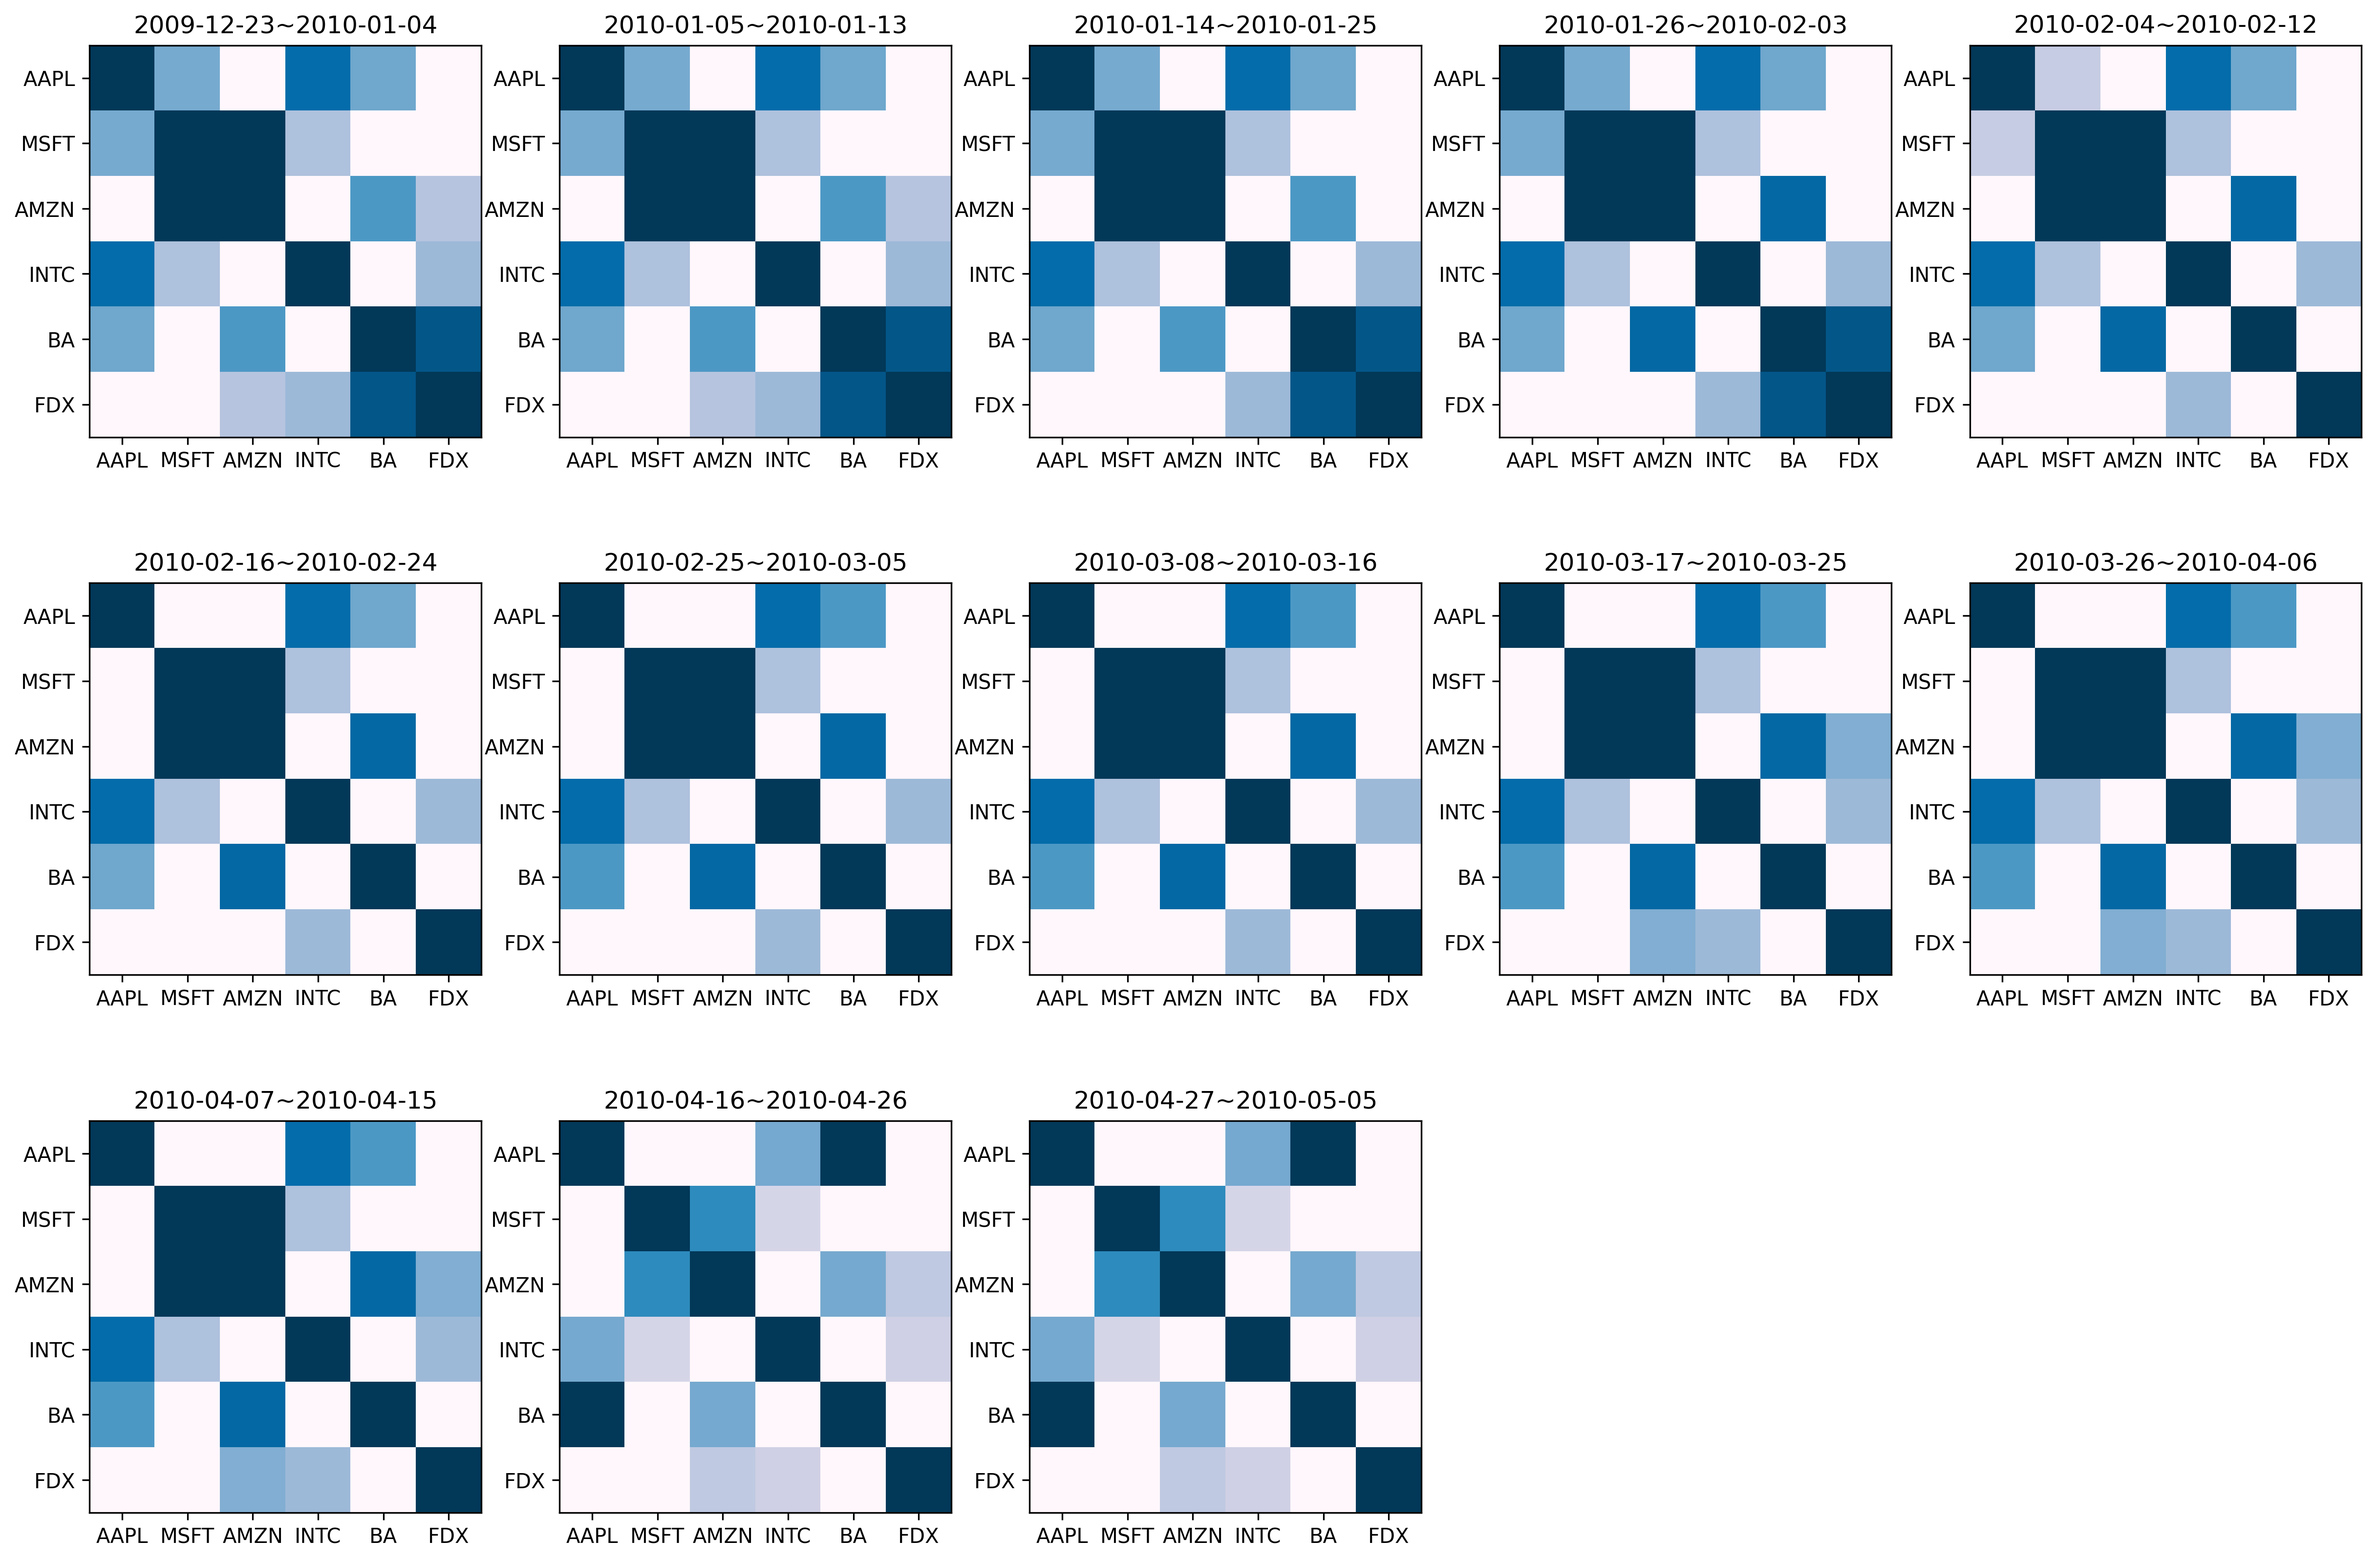
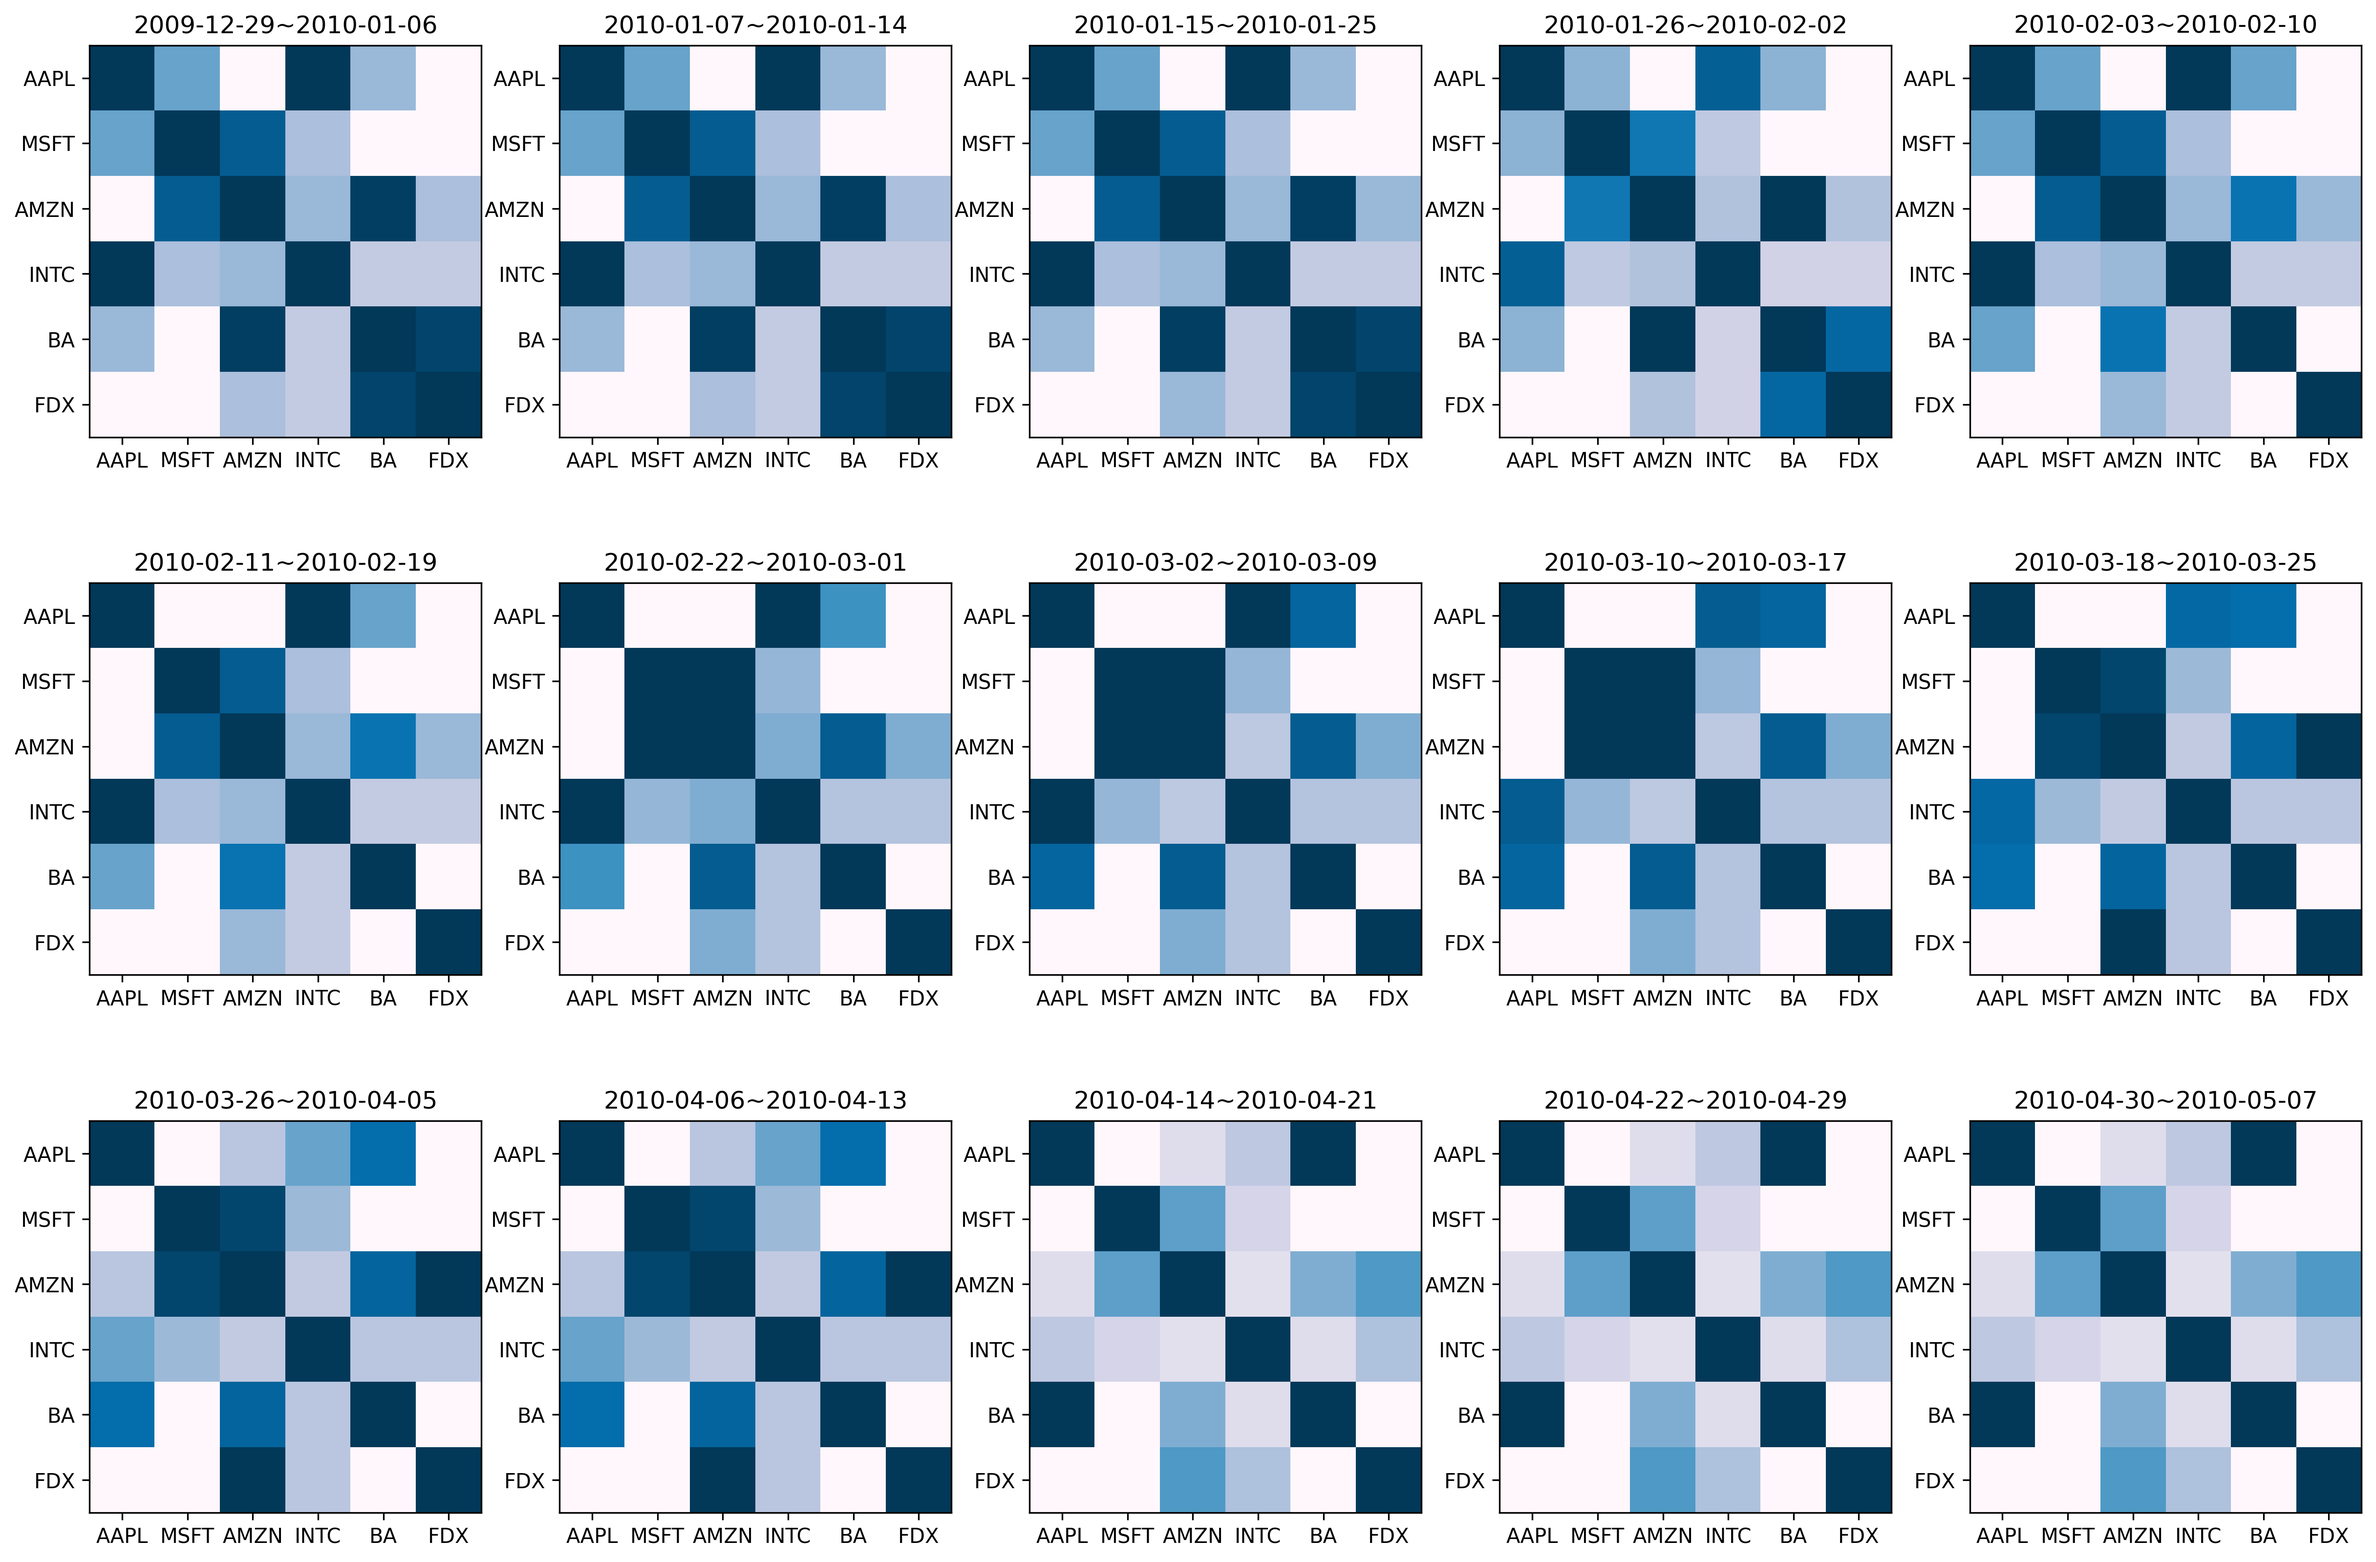
增加了折线显示函数，但是效果不是很理想，调了参数确认alpha beta有效

diff --git a/ParallelTVGL.py b/ParallelTVGL.py
@@ -1,3 +1,6 @@
+import os
+from pathlib import Path
+
 from BaseGraphicalLasso import BaseGraphicalLasso
 from DataHandler import DataHandler
 import penalty_functions as pf
@@ -85,6 +88,13 @@ class ParallelTVGL(BaseGraphicalLasso):
                 if self.iteration % 500 == 0 or self.iteration == 1:
                     s_time = time.time()
                 if self.iteration > 0:
+                    ##这个是原来的收敛判断条件，把它换成了ADMM的标准收敛判断
+                    # fro_norm = 0
+                    # for i in range(self.blocks):
+                    #     dif = self.thetas[i] - thetas_pre[i]
+                    #     fro_norm += np.linalg.norm(dif)
+                    # if fro_norm < self.e:
+                    #     stopping_criteria = True
                     info = self.check_Convergence()
                     stopping_criteria = info[0]
                     if(self.iteration % 500 ==0 ):
@@ -99,7 +109,7 @@ class ParallelTVGL(BaseGraphicalLasso):
                 self.pre_u1s = copy.deepcopy(self.u1s)
                 self.pre_u2s = copy.deepcopy(self.u2s)
 
-        self.run_time = "{0:.3g}".format(time.time() - start_time)
+        self.time_span = "{0:.3g}".format(time.time() - start_time)
         self.final_tuning(stopping_criteria, max_iter)
 
 
@@ -158,6 +168,9 @@ def u_update(theta, u0, z0, u2, z2, u1, z1, u1_p, theta_p, z1_p):
     return [new_u0, new_u1, new_u2]
 
 
+
+
+
 if __name__ == "__main__" :
 
     # Input parameters from command line:
@@ -190,13 +203,13 @@ if __name__ == "__main__" :
     # beta = float(sys.argv[5])
     filename = None
     penalty_function = "element_wise"
-    blocks = 13
-    lambd = 0.17
+    blocks = 15
+    lambd = 0.3
     beta = 5
-    samplePerStep = 7
+    samplePerStep = 6
     dimension = 6
     real_data = True
-    time_set = timing_set(101, samplePerStep, 3, samplePerStep, 10)
+    time_set = timing_set(101, samplePerStep, 3, samplePerStep, 12)
     stock_list = [2, 321, 30, 241, 48, 180]
 
 
@@ -205,8 +218,6 @@ if __name__ == "__main__" :
     solver = ParallelTVGL(filename=filename,
                         penalty_function=penalty_function,
                         blocks=blocks,
-                        lambd=lambd,
-                        beta=beta,
                         samplePerStep=samplePerStep,
                         dimension=dimension,
                         time_set=time_set,
@@ -232,8 +243,14 @@ if __name__ == "__main__" :
         print(solver.thetas[10][j, :])
     company_list = get_company_list(stock_list)
     company_list_list = list(company_list)
-    save_matrix_plot_exact_number(solver.thetas, time_set, company_list_list, './P_theta_exact_number.png')
-    save_matrix_plot(solver.thetas, time_set, company_list_list, './P_theta.png')
+    time_param = [101, samplePerStep,  3, samplePerStep, 12]
+    log_path = get_log_path(stock_list, time_param, samplePerStep, penalty_function, time_set)
+    if not Path(log_path).exists():
+        os.makedirs(log_path + "/")
+
+    save_matrix_plot_exact_number(solver.thetas, time_set, company_list_list, log_path + '/P_theta_exact_number.png')
+    save_matrix_plot(solver.thetas, time_set, company_list_list, log_path + '/P_theta.png')
+    save_line_plot(solver.deviations, time_set, solver.lambd, solver.beta, solver.time_span, log_path + '/line.png', samplePerStep, penalty_function)
     print("\nTemporal deviations: ")
     # solver.temporal_deviations()
     print(solver.deviations)
@@ -258,6 +275,6 @@ if __name__ == "__main__" :
     #     datahandler.write_network_results(filename, solver)
 
     """ Running times """
-    print("\nAlgorithm run time: %s seconds" % (solver.run_time))
+    print("\nAlgorithm run time: %s seconds" % (solver.time_span))
     print("Execution time: %s seconds" % (time.time() - start_time))
 

diff --git a/utils.py b/utils.py
@@ -1,4 +1,7 @@
+from datetime import datetime
+
 import numpy as np
+import matplotlib.pylab as pl
 
 COR = ['A', 'AA', 'AAPL', 'ABC', 'ABT', 'ACE', 'ACS', 'ADBE', 'ADI', 'ADM', 'ADP', 'ADSK', 'AEE', 'AEP', 'AES',
        'AET', 'AFL', 'AGN', 'AIG', 'AIV', 'AIZ', 'AKAM', 'AKS', 'ALL', 'ALTR', 'AMAT', 'AMD', 'AMGN', 'AMP', 'AMT',
@@ -58,7 +61,6 @@ def timing_set(center, samplesPerStep_left, count_left, samplesPerStep_right, co
 
 def save_matrix_plot(theta_est_list, time_set, company_list_list, path):
     TIME_MAP = get_time_map()
-    import matplotlib.pylab as pl
     row_num = np.ceil(len(time_set) / 5.0)
     fig = pl.figure(figsize=(20, 4.5 * row_num))
     for i in range(len(time_set)):
@@ -82,7 +84,6 @@ def save_matrix_plot(theta_est_list, time_set, company_list_list, path):
 
 def save_matrix_plot_exact_number(theta_est_list, time_set, company_list_list, path):
     TIME_MAP = get_time_map()
-    import matplotlib.pylab as pl
     row_num = np.ceil(len(time_set) / 5.0)
     fig = pl.figure(figsize=(20, 4.5 * row_num))
     for i in range(len(time_set)):
@@ -129,8 +130,6 @@ def get_time_map() -> object:
 def get_company_list(stock_list):
     return map(lambda x : COR[x], stock_list)
 
-
-
 def genEmpCov(samples, useKnownMean=False, m=0):
     size, samplesPerStep = samples.shape
     if useKnownMean == False:
@@ -141,3 +140,48 @@ def genEmpCov(samples, useKnownMean=False, m=0):
         empCov = empCov + np.outer(sample - m, sample - m)
     empCov = empCov / samplesPerStep
     return empCov
+
+def get_time_list(time_set, short=False):
+    TIME_MAP = get_time_map()
+    result = []
+    for t in time_set:
+        if short:
+            result.append(TIME_MAP[t[0]][5:] + '~' + TIME_MAP[t[1]][5:])
+        else:
+            result.append(TIME_MAP[t[0]] + '~' + TIME_MAP[t[1]])
+    return result
+
+
+def save_line_plot(temp_dev_list, time_set, alpha, beta, time_span, path, time_step, penalty):
+    TIME_MAP = get_time_map()
+    pl.figure(figsize = (1.5 * len(temp_dev_list), 4))
+    pl.plot(temp_dev_list[0:], '-o')
+    pl.ylabel(r'$\|\Theta_i - \Theta_{i-1}\|_{F}$')
+    pl.xlabel('Timestamp')
+    pl.yscale('log')
+    pl.text(0.05, 0.5, 'Alpha=' + str(alpha))
+    pl.text(0.05, 0.3, 'Beta=' + str(beta))
+    pl.text(0.05, 0.1, "Time passed: {}s".format(time_span))
+    pl.text(0.05, 0.03, 'samplePerStep=' + str(time_step))
+    pl.title('From ' + TIME_MAP[time_set[0][0]] + ' to ' + TIME_MAP[time_set[-1][1]] + " " + penalty)
+    ax = pl.gca()
+    ax.set_yticks([10**(-3), 10**(-2), 10**(-1), 1])
+    # angle = np.linspace(0, len(temp_dev_list) - 1, len(temp_dev_list))
+    a = get_time_list(time_set, True)[0:]
+    ax.set_xticks(np.linspace(0, len(temp_dev_list) - 1, len(temp_dev_list)))
+    ax.set_xticklabels(get_time_list(time_set, True)[:-1])
+    ax.set_yticklabels([r'$10^{-3}$', r'$10^{-2}$', r'$10^{-1}$', r'$10^{0}$'])
+    pl.savefig(path, dpi=300, bbox_inches='tight')
+
+
+def get_dir_name(stock_list, time_param, time_set):
+    TIME_MAP = get_time_map()
+    stocks = get_company_list(stock_list)
+    stockstr = ','.join(stocks)
+    time_param = list(time_param)
+    time_param_str_list = [str(i) for i in time_param]
+    return '[' + stockstr + ']' + TIME_MAP[time_set[0][0]] + '_' + TIME_MAP[time_set[-1][-1]] + '_' + '_'.join(time_param_str_list)
+
+def get_log_path(stock_list, time_param,time_step, penalty, time_set):
+
+    return "./result/" + 'PD_result{}_time_step{}_{}/'.format(datetime.now().strftime('%Y-%m-%d'), time_step, penalty) + get_dir_name(stock_list, time_param, time_set)

diff --git a/BaseGraphicalLasso.py b/BaseGraphicalLasso.py
@@ -16,9 +16,8 @@ class BaseGraphicalLasso(object):
     np.set_printoptions(precision=3)
 
     """ Initialize attributes, read data """
-    def __init__(self, filename, blocks, lambd, beta,
-                 processes, samplePerStep, dimension, time_set, stock_list, read_data_function, penalty_function="group_lasso",
-                 datecolumn=True):
+    def __init__(self, filename, blocks, processes, samplePerStep, dimension, time_set, stock_list,
+                 read_data_function, penalty_function="group_lasso",datecolumn=True):
         self.datecolumn = datecolumn
         self.processes = processes
         self.blocks = blocks
@@ -57,7 +56,8 @@ class BaseGraphicalLasso(object):
         self.roundup = ADMMParam.ROUNDUP # 结果四舍五入保留的位数
         self.e_rel = ADMMParam.E_REL # ADMM收敛条件的两个参数
         self.e_abs = ADMMParam.E_ABS
-        self.rho = 1
+        self.rho = ADMMParam.RHO
+        self.time_span = None
 
 
     """调用传入的读入数据函数以获取经验协方差"""
@@ -170,6 +170,7 @@ class BaseGraphicalLasso(object):
             self.pre_u2s = copy.deepcopy(self.u2s)
 
         self.run_time = "{0:.3g}".format(time.time() - start_time)
+        self.time_span = time.time() - start_time
         self.final_tuning(stopping_criteria, max_iter)
 
     def theta_update(self):
@@ -252,7 +253,7 @@ class BaseGraphicalLasso(object):
         closes possible multiprocesses. """
     def final_tuning(self, stopping_criteria, max_iter):
         self.temporal_deviations()
-        self.thetas = [np.round(theta, self.roundup) for theta in self.thetas]
+        self.thetas = [np.abs(np.round(theta, self.roundup)) for theta in self.thetas]
         self.terminate_processes()
         if stopping_criteria:
             print("\nIterations to complete: %s" % self.iteration)
@@ -281,8 +282,8 @@ class BaseGraphicalLasso(object):
         self.deviations = np.zeros(self.blocks - 1)
         for i in range(0, self.blocks - 1):
             dif = self.thetas[i+1] - self.thetas[i]
-            np.fill_diagonal(dif, 0)
-            self.deviations[i] = np.linalg.norm(dif)
+            # np.fill_diagonal(dif, 0)
+            self.deviations[i] = np.linalg.norm(dif, 'fro')
         try:
             self.norm_deviations = self.deviations/max(self.deviations)
             self.dev_ratio = float(max(self.deviations))/float(

diff --git a/SerialTVGL.py b/SerialTVGL.py
@@ -225,13 +225,13 @@ if __name__ == "__main__" :
     # beta = float(sys.argv[5])
     filename = None
     penalty_function = "element_wise"
-    blocks = 13
+    blocks = 15
     lambd = 0.17
     beta = 5
     samplePerStep = 7
     dimension = 6
     real_data = True
-    time_set = timing_set(101, samplePerStep, 3, samplePerStep, 10)
+    time_set = timing_set(101, samplePerStep, 3, samplePerStep, 12)
     stock_list = [2, 321, 30, 241, 48, 180]
 
 
@@ -240,8 +240,6 @@ if __name__ == "__main__" :
     solver = SerialTVGL(filename=filename,
                         penalty_function=penalty_function,
                         blocks=blocks,
-                        lambd=lambd,
-                        beta=beta,
                         samplePerStep=samplePerStep,
                         dimension=dimension,
                         time_set=time_set,
@@ -269,6 +267,8 @@ if __name__ == "__main__" :
     company_list_list = list(company_list)
     save_matrix_plot_exact_number(solver.thetas, time_set, company_list_list, './theta_exact_number.png')
     save_matrix_plot(solver.thetas, time_set, company_list_list, './theta.png')
+    save_line_plot(solver.deviations, time_set, solver.lambd, beta, solver.time_span,'./line.png',
+                   samplePerStep, penalty_function)
     print("\nTemporal deviations: ")
     # solver.temporal_deviations()
     print(solver.deviations)

diff --git a/args.py b/args.py
@@ -1,0 +1,17 @@
+import argparse
+
+
+
+def get_parser():
+    parser = argparse.ArgumentParser()
+
+    # -- Data params ---
+    parser.add_argument("--penalty_function", type=str, default="element_wise")
+    parser.add_argument("--dimension", type=int, required=True)
+    parser.add_argument("--samplePerStep", type=int, required=True)
+    parser.add_argument("--leftstep", type=int, required=True)
+    parser.add_argument("--rightstep", type=int, required=True)
+    parser.add_argument("--save_data_path", type=str, default="./data/")
+
+
+    return parser

diff --git a/Params.py b/Params.py
@@ -5,8 +5,9 @@ class ADMMParam:
     ROUNDUP = 2  # 结果四舍五入保留的位数
     E_REL = 0.00002  # ADMM收敛条件的两个参数
     E_ABS = 0.00002
-    LAMBDA = 0.17
+    LAMBDA = 0.3
     BETA = 5
+    RHO = 1
 
 
 class StockInfo:
